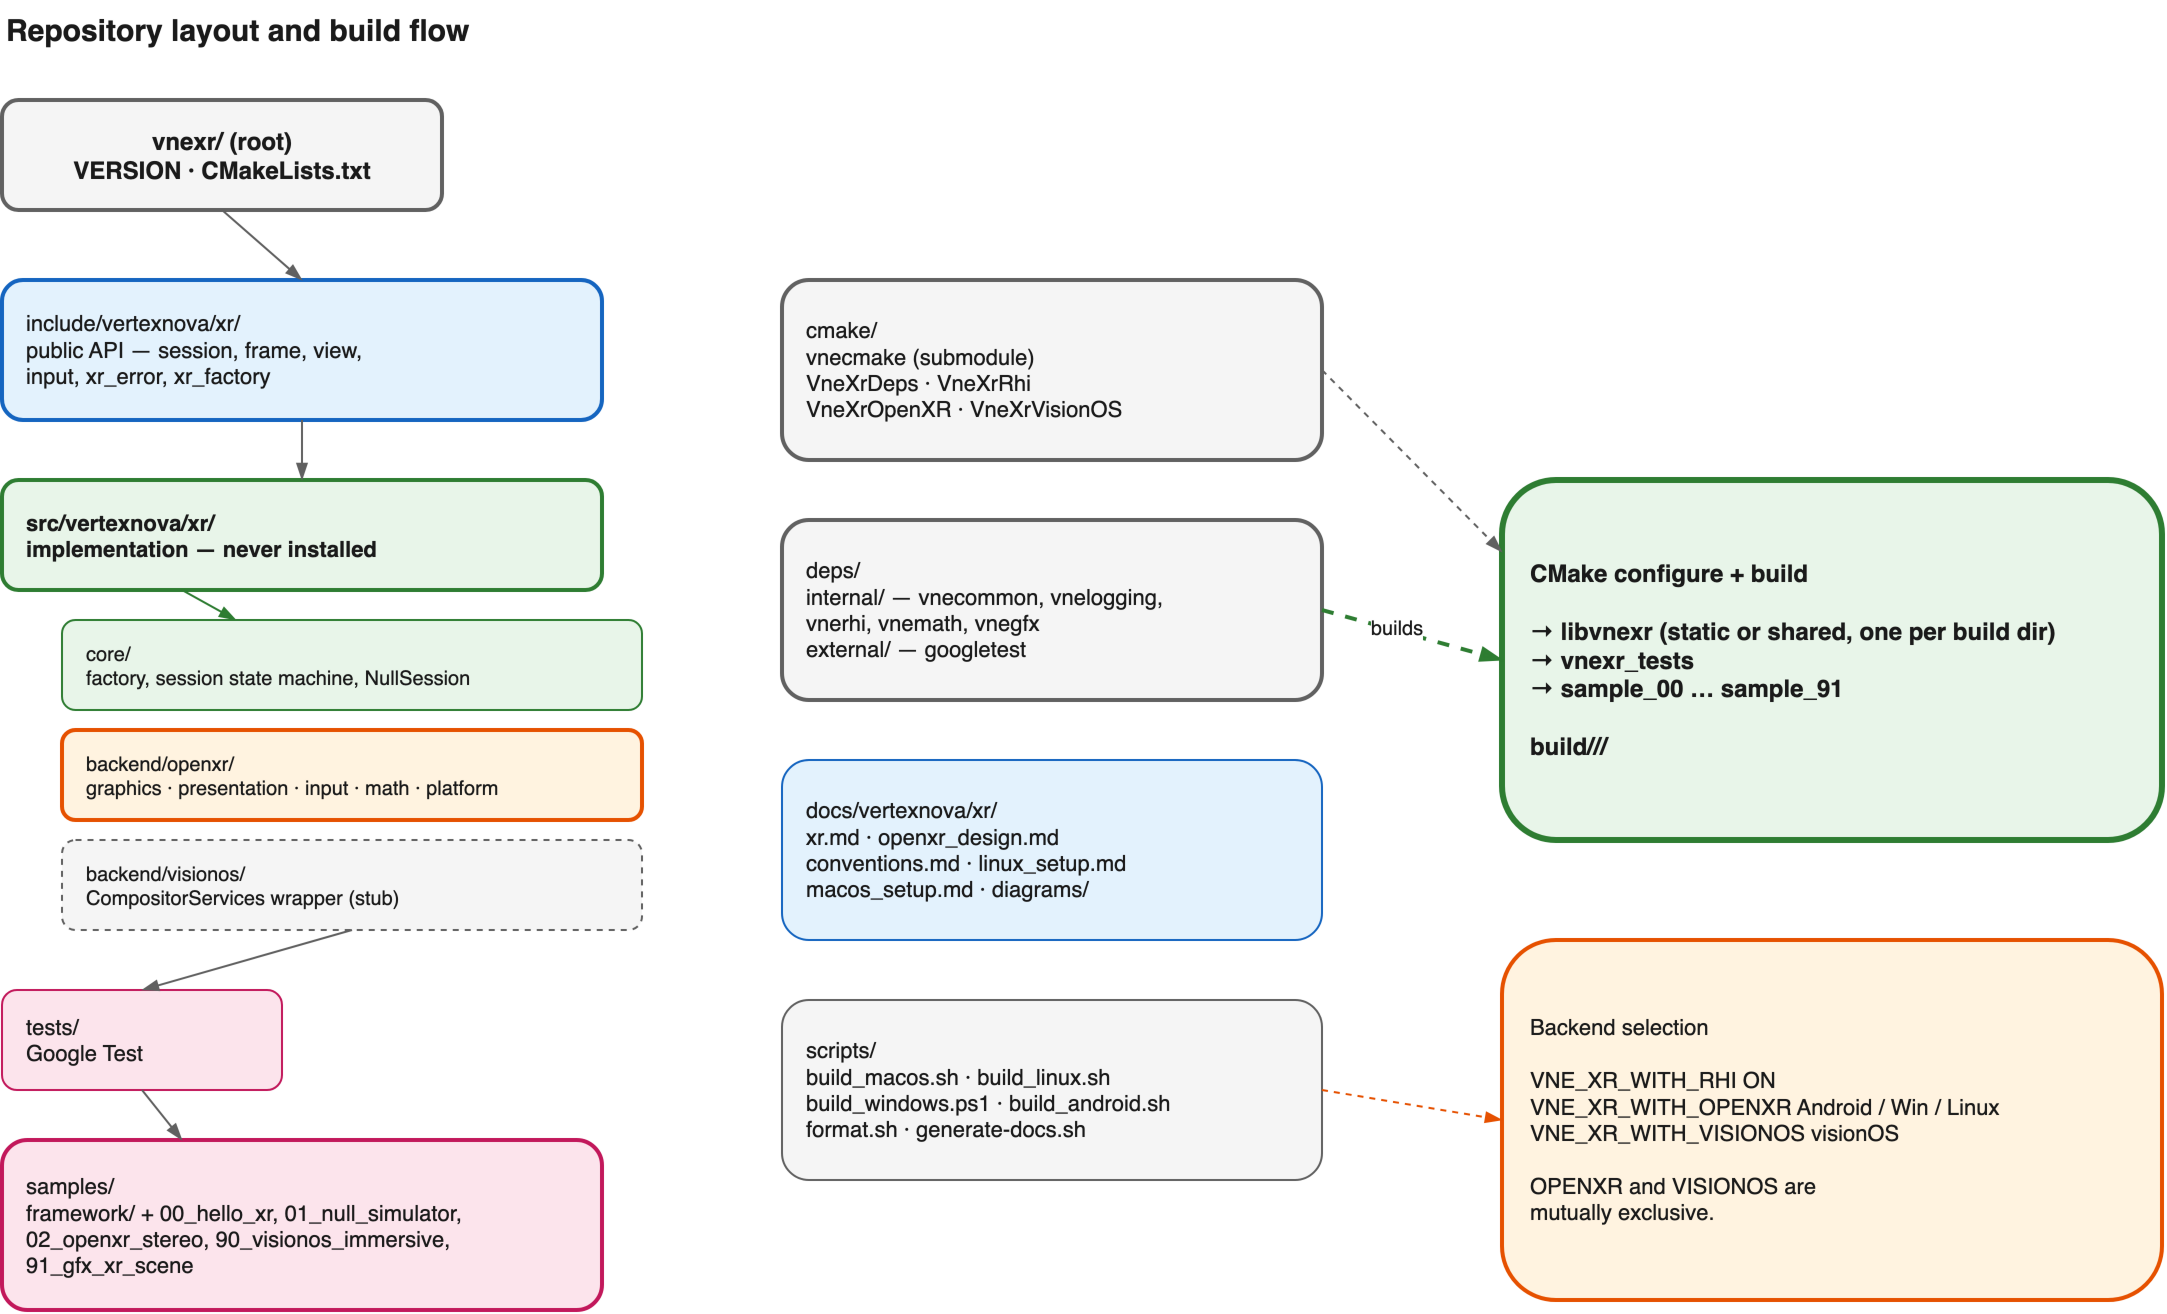
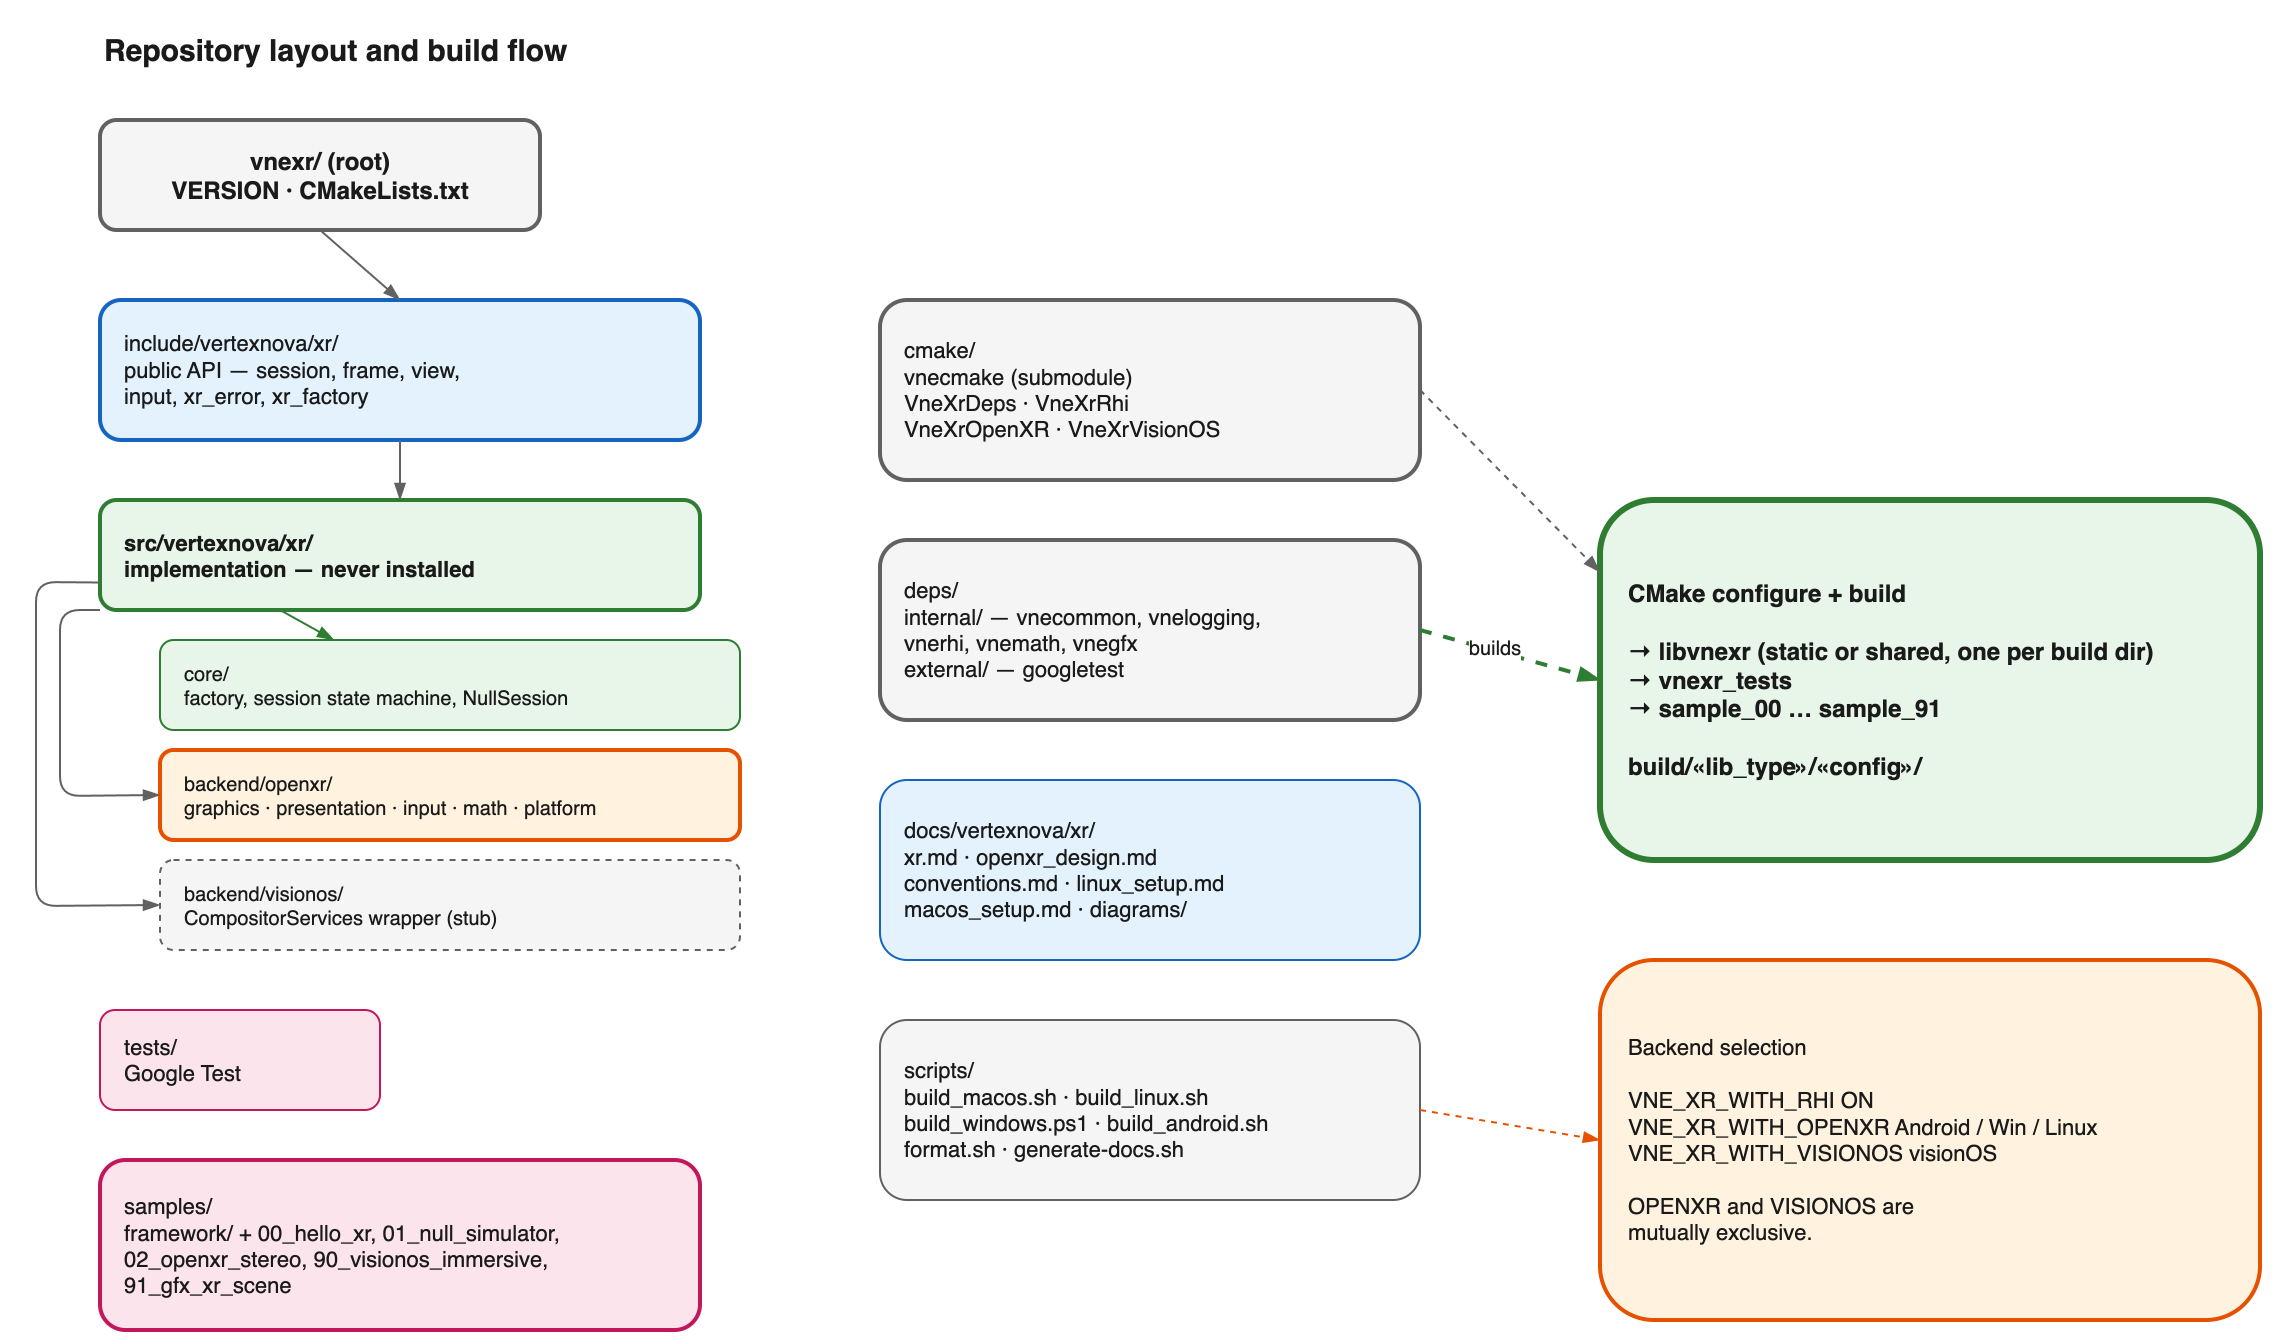
Enhance OpenXR session management and update diagrams
- Updated the OpenXR session handling to ensure `session_running_` is set to true upon successful session initiation.
- Improved diagram annotations and layouts for better clarity regarding session states and transitions.
- Adjusted various diagrams to reflect changes in session management logic and enhance overall documentation coherence.
- Updated related PNG files to align with the latest diagram modifications.

diff --git a/src/vertexnova/xr/backend/openxr/openxr_session.cpp b/src/vertexnova/xr/backend/openxr/openxr_session.cpp
@@ -278,6 +278,7 @@ void OpenXrSession::handleSessionStateChanged(XrSessionState xr_state) {
                 begin.primaryViewConfigurationType = view_configuration_;
                 if (XR_SUCCEEDED(xrBeginSession(session_, &begin))) {
                     session_begun_ = true;
+                    session_running_ = true;
                 }
             }
             break;
@@ -303,7 +304,6 @@ void OpenXrSession::handleSessionStateChanged(XrSessionState xr_state) {
             }
             swapchain_bridge_.destroy();
             swapchains_ready_ = false;
-            running_ = false;
             break;
         case XR_SESSION_STATE_LOSS_PENDING:
             state_ = SessionState::eLossPending;

diff --git a/docs/vertexnova/xr/openxr_design.md b/docs/vertexnova/xr/openxr_design.md
@@ -124,7 +124,7 @@ flowchart LR
   release --> end[xrEndFrame]
 ```
 
-`beginFrame` only runs `xrWaitFrame` / `xrBeginFrame` when session is running (`SYNCHRONIZED`, `VISIBLE`, or `FOCUSED`).
+`beginFrame` only runs `xrWaitFrame` / `xrBeginFrame` when `session_running_` is true. That flag is set immediately after a successful `xrBeginSession()` in `XR_SESSION_STATE_READY`, and stays set through `SYNCHRONIZED`, `VISIBLE`, and `FOCUSED`. `running_` stays true on `STOPPING` so the run loop can still observe `IDLE` and ends on `EXITING`.
 
 ## Platform bridges
 
